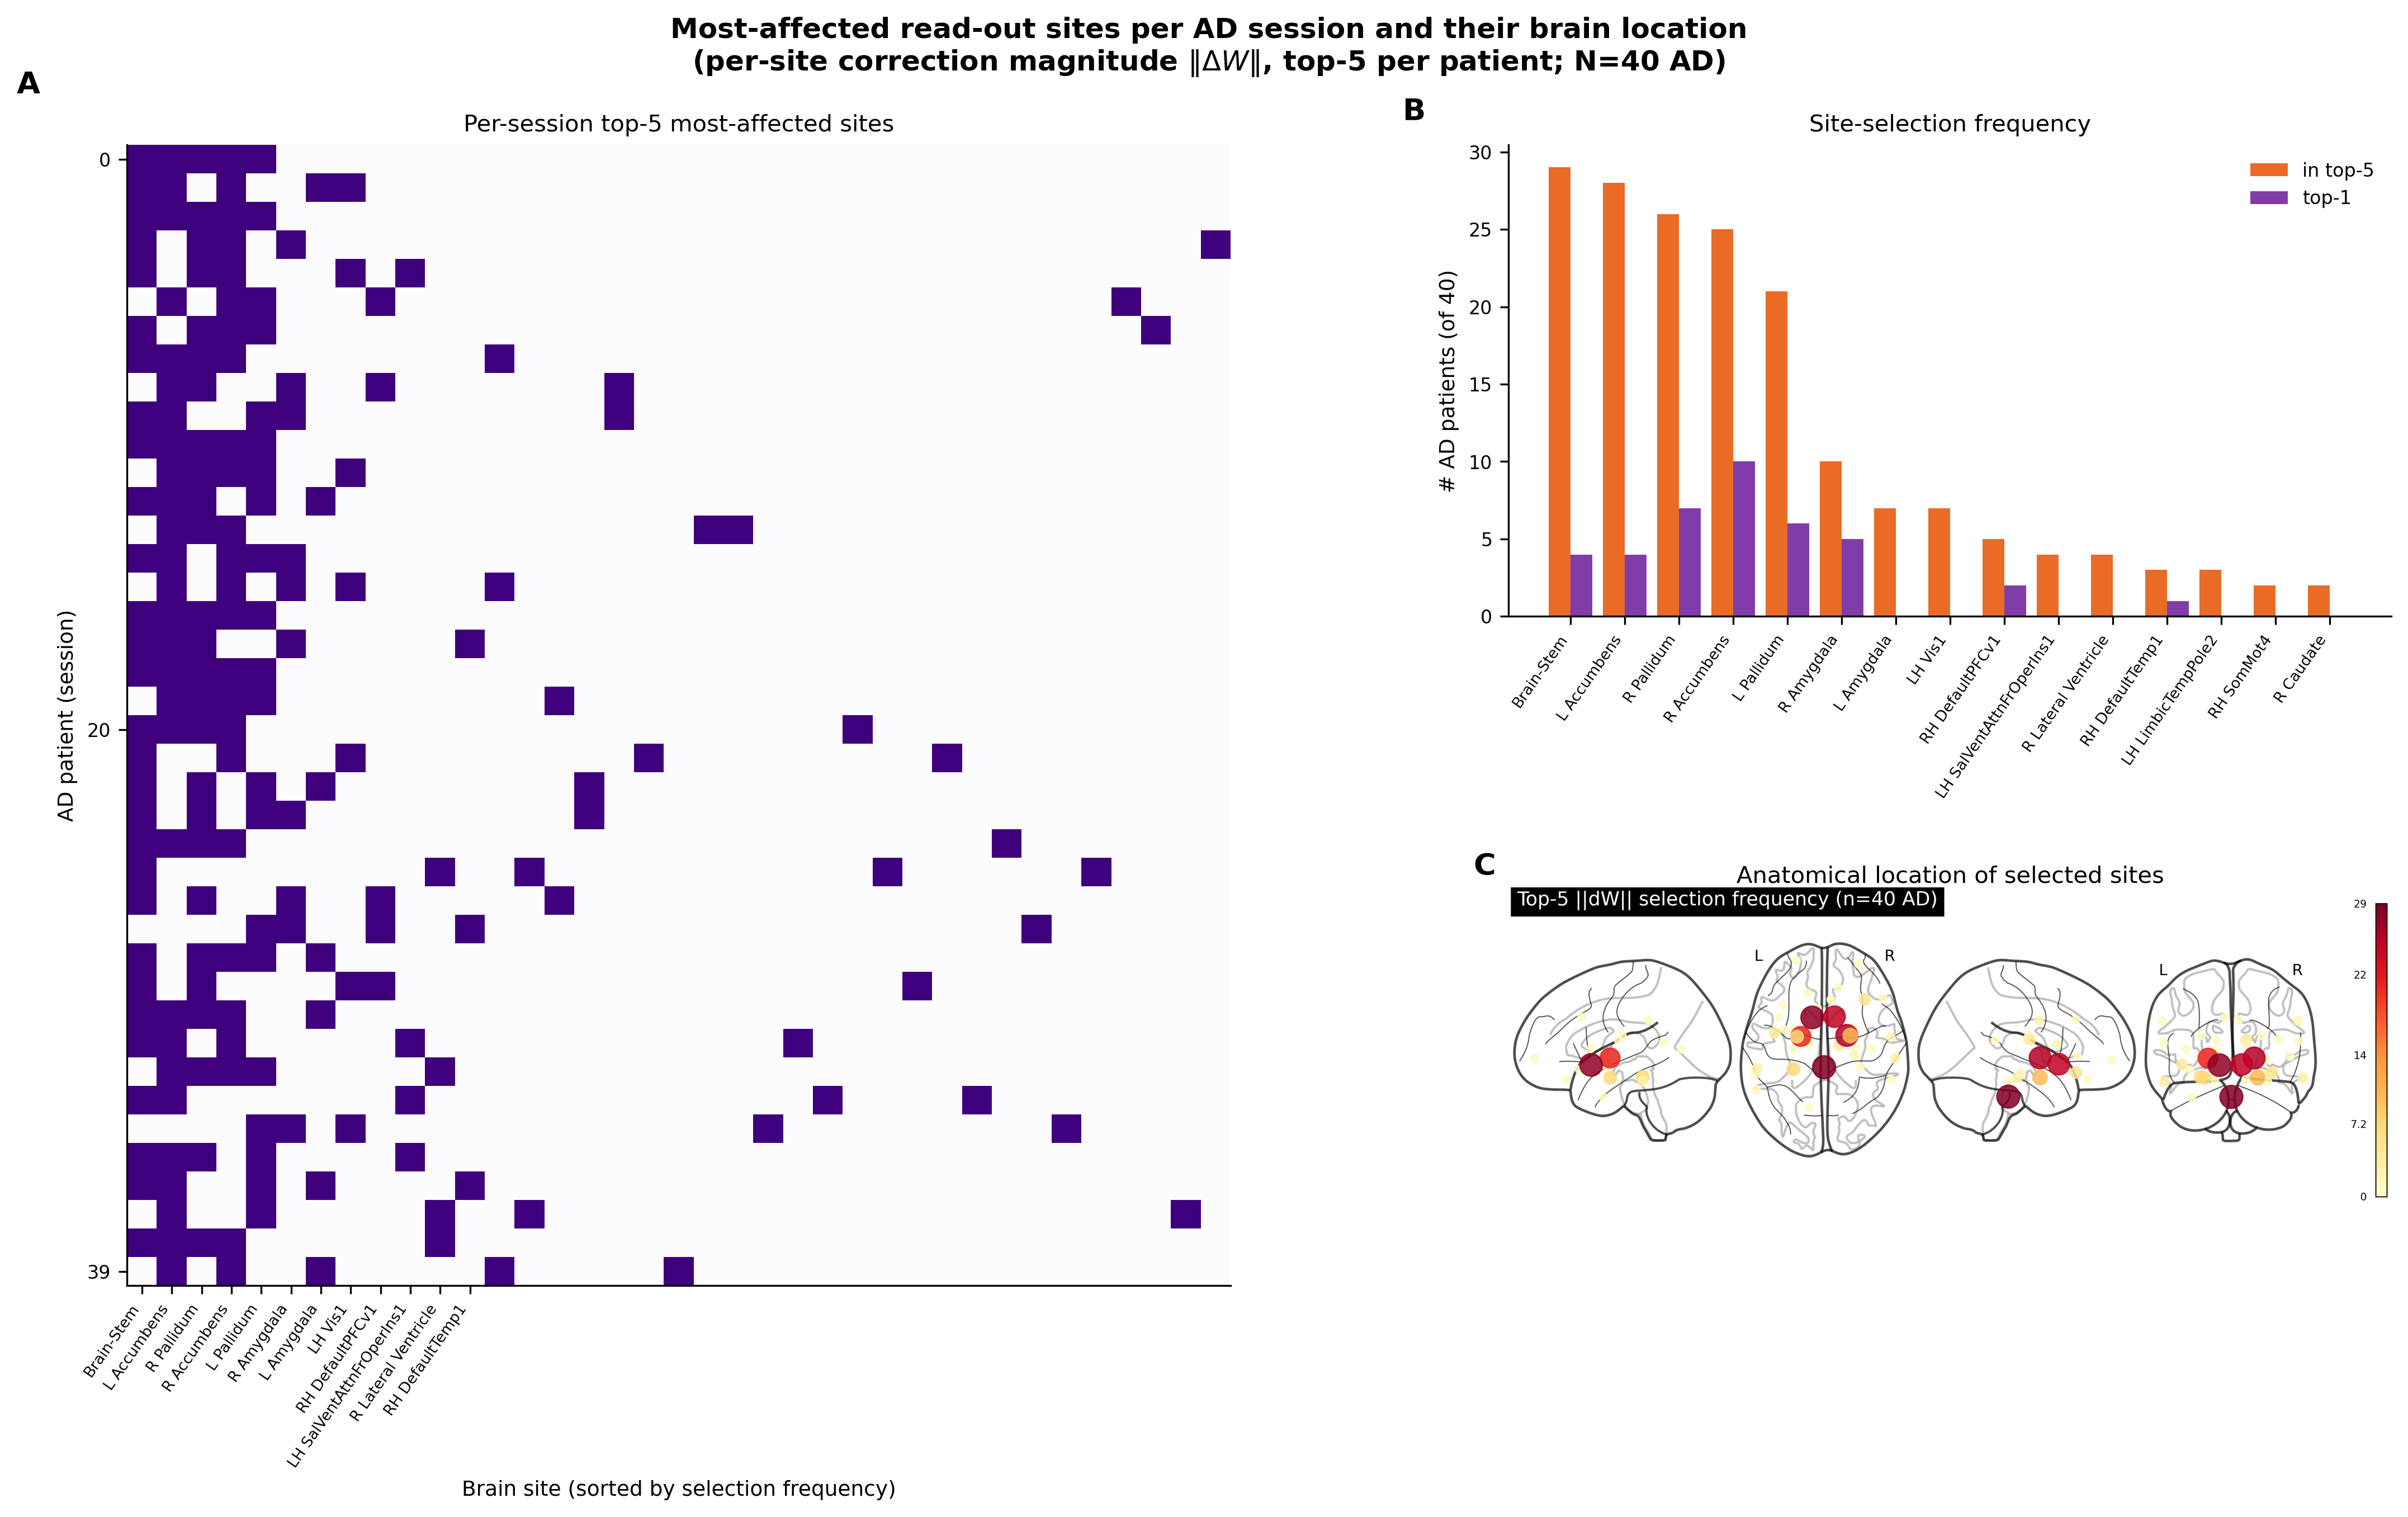
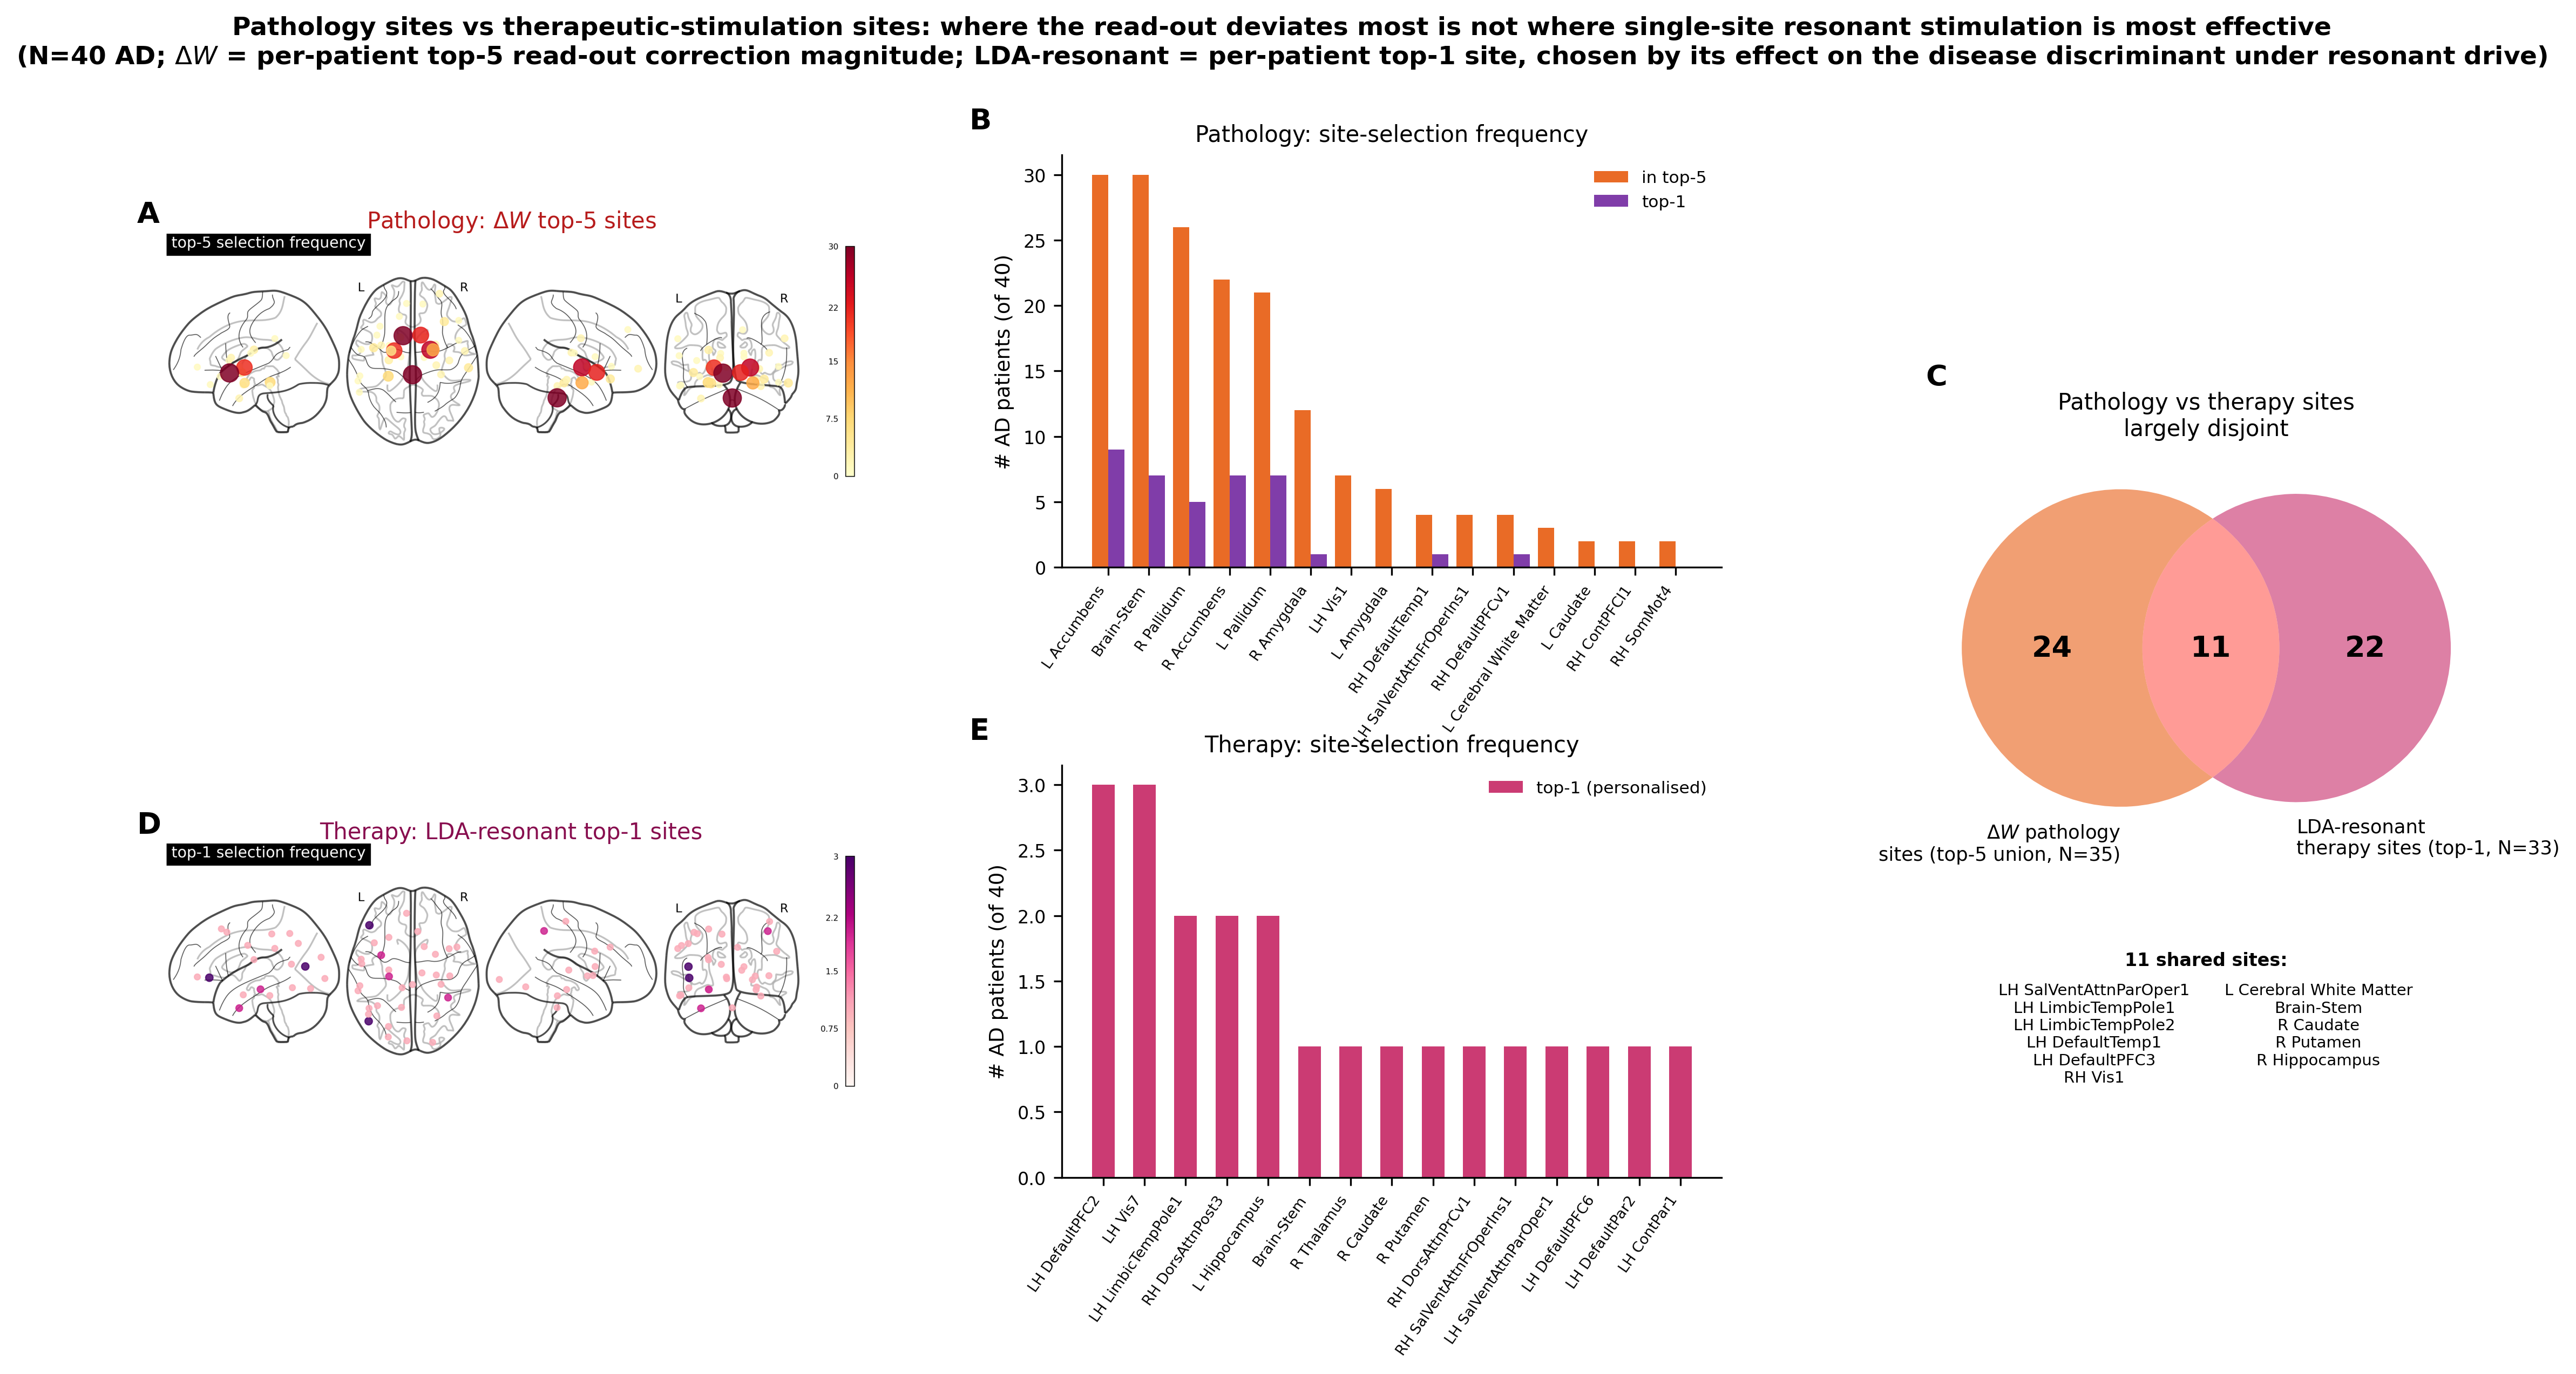
Figure 5: add explicit pathology-vs-therapy site comparison
User request: Fig 5 currently shows only the sites where the read-out
deviates most (Delta-W, pathology). Extended it to directly compare those
against the sites selected by single-site sinusoidal/resonant stimulation
(personalised LDA-resonant targets), making the paper's central dissociation
visually and quantitatively explicit in the main text rather than only in
supplementary Fig S5.

New 5-panel layout (was 3: membership matrix, freq bars, brain):
  A: glass brain, Delta-W top-5 pathology sites (reuses/re-renders existing
     figure5_brain data)
  B: pathology site-selection frequency bars (top-5/top-1) -- unchanged data
  C: 2-set Venn overlap: 35 distinct pathology sites (top-5 union) vs 33
     distinct therapy sites (top-1 per patient, personalised LDA-resonant) --
     only 11 shared, with the shared site names listed
  D: glass brain, therapy (LDA-resonant top-1) sites
  E: therapy site-selection frequency bars

Reuses only already-cached data, no resimulation: pert_sites_data.npz
(top5_site_counts, top1_site_counts, parcel_coords, from
pert_sites_stimulation.py) and pert_compare3_data.npz (pers_counts, from
pert_compare3.py). New script paper_figures/replot_figure5_topsites.py
follows the repo's replot_*.py convention. New dependency: matplotlib-venn
(added to README requirements).

Updated main.tex: full caption rewrite for the 5 panels, and the Results
pivot paragraph now cites the explicit overlap numbers (35 vs 33 distinct
[…]

diff --git a/paper_figures/replot_figure5_topsites.py b/paper_figures/replot_figure5_topsites.py
@@ -1,0 +1,212 @@
+"""
+replot_figure5_topsites.py
+===========================
+Extend Figure 5 into an explicit comparison: the sites where the AD read-out
+deviates most (pathology, Delta-W) vs the sites where single-site resonant
+stimulation is most effective (therapy, LDA-resonant / "stim sites"), showing
+that the two site sets are largely disjoint. No resimulation: reuses cached
+per-site counts and MNI coordinates.
+
+Data:
+  Delta-W (pathology) top-5 / top-1 per-patient selection counts and parcel
+  coordinates: ../pert_sites_data.npz (top5_site_counts, top1_site_counts,
+  parcel_coords), from pert_sites_stimulation.py (same seeded reservoir/W-fit
+  as this figure's original version).
+
+  LDA-resonant (therapy) per-patient top-1 site (argmax over 121 candidate
+  sites of the resonant-drive FC-lag reduction toward CC), and the full
+  121 x 40 reduction matrix: ../pert_compare3_data.npz (pers_counts, red_full),
+  from pert_compare3.py.
+
+Panels:
+  A  Glass brain, Delta-W top-5 selection frequency (pathology)
+  B  Selection-frequency bars, Delta-W (top-5 orange, top-1 purple)
+  C  Overlap (2-set Venn): Delta-W top-5-union sites vs LDA-resonant top-1
+     sites -- the great majority of sites in each set are exclusive to that
+     criterion
+  D  Glass brain, LDA-resonant top-1 selection frequency (therapy)
+  E  Selection-frequency bars, LDA-resonant top-1
+
+Saves: figure5_topsites.{png,pdf}
+"""
+import numpy as np
+import matplotlib
+matplotlib.use("Agg")
+import matplotlib.pyplot as plt
+import matplotlib.gridspec as gridspec
+from matplotlib.image import imread
+from matplotlib_venn import venn2
+import warnings; warnings.filterwarnings("ignore")
+
+plt.rcParams.update({
+    "font.family": "sans-serif", "font.size": 9,
+    "axes.labelsize": 9, "axes.titlesize": 10,
+    "xtick.labelsize": 8, "ytick.labelsize": 8,
+    "legend.fontsize": 8, "figure.dpi": 300, "savefig.dpi": 300,
+    "axes.spines.top": False, "axes.spines.right": False,
+})
+
+# ── parcel labels ─────────────────────────────────────────────────────────────
+def load_labels(path="../timeseries/parcel_labels.txt"):
+    lab = {}
+    with open(path) as f:
+        for line in f:
+            parts = line.split(None, 1)
+            if len(parts) == 2 and parts[0].strip().isdigit():
+                lab[int(parts[0]) - 1] = parts[1].strip()
+    return lab
+
+def short_label(name):
+    if name is None:
+        return "?"
+    name = name.replace("Left ", "L ").replace("Right ", "R ")
+    if name.startswith("7Networks_"):
+        p = name.replace("7Networks_", "").split("_")
+        return (p[0] + " " + "".join(p[1:])) if len(p) > 1 else p[0]
+    return name
+
+labels = load_labels()
+
+# ── cached data (no resimulation) ──────────────────────────────────────────────
+sites = np.load("../pert_sites_data.npz", allow_pickle=True)
+counts5 = sites["top5_site_counts"]; counts1 = sites["top1_site_counts"]
+parcel_coords = sites["parcel_coords"]
+N_SITES = len(counts5)
+
+cmp3 = np.load("../pert_compare3_data.npz", allow_pickle=True)
+pers_counts = cmp3["pers_counts"].astype(int)   # per-patient top-1 LDA-resonant site
+n_ad = int(pers_counts.sum())
+
+dw5_set = set(np.where(counts5 > 0)[0])          # Delta-W top-5-union sites
+stim_set = set(np.where(pers_counts > 0)[0])      # LDA-resonant top-1 sites
+overlap_sites = sorted(dw5_set & stim_set)
+n_dw_only = len(dw5_set - stim_set)
+n_stim_only = len(stim_set - dw5_set)
+n_overlap = len(overlap_sites)
+print(f"Delta-W top-5-union sites: {len(dw5_set)}  |  LDA-resonant top-1 sites: {len(stim_set)}")
+print(f"Overlap: {n_overlap} sites {[short_label(labels.get(s)) for s in overlap_sites]}")
+print(f"Delta-W-only: {n_dw_only}  |  shared: {n_overlap}  |  stim-only: {n_stim_only}")
+
+order5 = np.argsort(counts5)[::-1]; sel5 = order5[counts5[order5] > 0]
+order_p = np.argsort(pers_counts)[::-1]; sel_p = order_p[pers_counts[order_p] > 0]
+
+# ══════════════════════════════════════════════════════════════════════════════
+# BRAIN RENDERS
+# ══════════════════════════════════════════════════════════════════════════════
+print("\nRendering glass brains ...")
+from nilearn import plotting
+
+sel = counts5 > 0
+disp = plotting.plot_markers(
+    node_values=counts5[sel].astype(float), node_coords=parcel_coords[sel],
+    node_size=25 + 10 * counts5[sel], node_cmap="YlOrRd",
+    node_vmin=0, node_vmax=float(counts5.max()),
+    display_mode="lzry", alpha=0.85, colorbar=True,
+    title="top-5 selection frequency")
+disp.savefig("figure5_brain.png", dpi=300)
+disp.savefig("figure5_brain.pdf")
+disp.close()
+
+sel = pers_counts > 0
+disp = plotting.plot_markers(
+    node_values=pers_counts[sel].astype(float), node_coords=parcel_coords[sel],
+    node_size=25 + 10 * pers_counts[sel], node_cmap="RdPu",
+    node_vmin=0, node_vmax=float(pers_counts.max()),
+    display_mode="lzry", alpha=0.85, colorbar=True,
+    title="top-1 selection frequency")
+disp.savefig("figure5_stimbrain.png", dpi=300)
+disp.savefig("figure5_stimbrain.pdf")
+disp.close()
+print("Saved figure5_brain.{png,pdf} and figure5_stimbrain.{png,pdf}")
+
+# ══════════════════════════════════════════════════════════════════════════════
+# COMPOSITE FIGURE 5
+# ══════════════════════════════════════════════════════════════════════════════
+print("Rendering composite figure ...")
+fig = plt.figure(figsize=(15.5, 8.2), facecolor="white")
+gs = gridspec.GridSpec(2, 3, figure=fig, width_ratios=[1.05, 1.0, 0.85],
+                        height_ratios=[1.0, 1.0], hspace=0.48, wspace=0.32,
+                        left=0.055, right=0.98, top=0.88, bottom=0.11)
+
+def _tag(ax, t, x=-0.08, y=1.05):
+    ax.text(x, y, t, transform=ax.transAxes, fontsize=13,
+             fontweight="bold", va="bottom", ha="left")
+
+# ── A: Delta-W glass brain (pathology) ─────────────────────────────────────────
+ax_a = fig.add_subplot(gs[0, 0])
+ax_a.imshow(imread("figure5_brain.png")); ax_a.axis("off")
+ax_a.set_title("Pathology: $\\Delta W$ top-5 sites", pad=2, color="#B71C1C")
+_tag(ax_a, "A", x=-0.04, y=1.02)
+
+# ── B: Delta-W selection-frequency bars ────────────────────────────────────────
+ax_b = fig.add_subplot(gs[0, 1])
+nb = min(15, len(sel5))
+xs = np.arange(nb)
+ax_b.bar(xs - 0.2, counts5[sel5[:nb]], 0.4, color="#E65100", alpha=0.85, label="in top-5")
+ax_b.bar(xs + 0.2, counts1[sel5[:nb]], 0.4, color="#6A1B9A", alpha=0.85, label="top-1")
+ax_b.set_xticks(xs)
+ax_b.set_xticklabels([short_label(labels.get(s)) for s in sel5[:nb]],
+                      rotation=55, ha="right", fontsize=6.5)
+ax_b.set_ylabel(f"# AD patients (of {n_ad})")
+ax_b.set_title("Pathology: site-selection frequency")
+ax_b.legend(frameon=False, fontsize=7.5)
+_tag(ax_b, "B", x=-0.14)
+
+# ── C: overlap (Venn) ──────────────────────────────────────────────────────────
+ax_c = fig.add_subplot(gs[:, 2])
+ax_c.set_position([ax_c.get_position().x0, ax_c.get_position().y0 + 0.16,
+                    ax_c.get_position().width, ax_c.get_position().height * 0.62])
+v = venn2(subsets=(n_dw_only, n_stim_only, n_overlap),
+          set_labels=(f"$\\Delta W$ pathology\nsites (top-5 union, N={len(dw5_set)})",
+                       f"LDA-resonant\ntherapy sites (top-1, N={len(stim_set)})"),
+          set_colors=("#E65100", "#C2185B"), alpha=0.55, ax=ax_c)
+for txt in v.subset_labels:
+    if txt is not None:
+        txt.set_fontsize(13); txt.set_fontweight("bold")
+for txt in v.set_labels:
+    if txt is not None:
+        txt.set_fontsize(8.5)
+ax_c.set_title("Pathology vs therapy sites\nlargely disjoint", pad=8)
+_tag(ax_c, "C", x=0.0, y=1.16)
+
+overlap_names = [short_label(labels.get(s)) for s in overlap_sites]
+half = (len(overlap_names) + 1) // 2
+col1 = "\n".join(overlap_names[:half]); col2 = "\n".join(overlap_names[half:])
+ax_c.text(0.5, -0.28, f"{n_overlap} shared sites:", transform=ax_c.transAxes,
+           ha="center", va="top", fontsize=8, fontweight="bold")
+ax_c.text(0.30, -0.36, col1, transform=ax_c.transAxes, ha="center", va="top", fontsize=7)
+ax_c.text(0.70, -0.36, col2, transform=ax_c.transAxes, ha="center", va="top", fontsize=7)
+
+# ── D: LDA-resonant glass brain (therapy) ──────────────────────────────────────
+ax_d = fig.add_subplot(gs[1, 0])
+ax_d.imshow(imread("figure5_stimbrain.png")); ax_d.axis("off")
+ax_d.set_title("Therapy: LDA-resonant top-1 sites", pad=2, color="#880E4F")
+_tag(ax_d, "D", x=-0.04, y=1.02)
+
+# ── E: LDA-resonant selection-frequency bars ────────────────────────────────────
+ax_e = fig.add_subplot(gs[1, 1])
+ne = min(15, len(sel_p))
+xs = np.arange(ne)
+ax_e.bar(xs, pers_counts[sel_p[:ne]], 0.55, color="#C2185B", alpha=0.85,
+          label="top-1 (personalised)")
+ax_e.set_xticks(xs)
+ax_e.set_xticklabels([short_label(labels.get(s)) for s in sel_p[:ne]],
+                      rotation=55, ha="right", fontsize=6.5)
+ax_e.set_ylabel(f"# AD patients (of {n_ad})")
+ax_e.set_title("Therapy: site-selection frequency")
+ax_e.legend(frameon=False, fontsize=7.5)
+_tag(ax_e, "E", x=-0.14)
+
+fig.suptitle(
+    "Pathology sites vs therapeutic-stimulation sites: where the read-out "
+    "deviates most is not where single-site resonant stimulation is most "
+    f"effective\n(N={n_ad} AD; $\\Delta W$ = per-patient top-5 read-out "
+    "correction magnitude; LDA-resonant = per-patient top-1 site, chosen by "
+    "its effect on the disease discriminant under resonant drive)",
+    fontsize=11.3, fontweight="bold", y=0.985)
+
+for ext in ("png", "pdf"):
+    fig.savefig(f"figure5_topsites.{ext}", dpi=300, bbox_inches="tight", facecolor="white")
+    print(f"Saved figure5_topsites.{ext}")
+plt.close(fig)
+print("\nDone.")

diff --git a/paper/main.tex b/paper/main.tex
@@ -397,8 +397,8 @@ The anatomy of the read-out changes was nonetheless interpretable. The sites
 with the largest per-patient correction magnitude
 $\lVert\Delta\mathbf{W}\rVert$ were consistently subcortical and limbic, most
 frequently the bilateral pallidum and nucleus accumbens, the brainstem and the
-amygdala (Fig.~\ref{fig:topsites}), each selected among the top-five sites in a
-large fraction of AD patients, structures of the limbic and basal-ganglia
+amygdala (Fig.~\ref{fig:topsites}A,B), each selected among the top-five sites in
+a large fraction of AD patients, structures of the limbic and basal-ganglia
 circuitry implicated in Alzheimer's disease, with the brainstem and amygdala in
 particular harbouring some of the earliest neurofibrillary
 pathology~\cite{braak1991}. Critically, however, correcting even these
@@ -417,25 +417,44 @@ magnitude of change, and identifying it requires the per-patient generative
 model. The analysis below shows that this change of criterion is decisive: the
 same type of focal, single-site, resonant intervention that fails at the
 deviation-ranked target succeeds completely at the discriminant-aligned one.
+Directly comparing the two site sets makes the dissociation explicit
+(Fig.~\ref{fig:topsites}C--E): the $35$ distinct sites ever appearing in a
+patient's pathology top-5 and the $33$ distinct per-patient therapy sites
+(personalised LDA-resonant targets) identified across the $40$ AD patients
+share only $11$ sites, the great majority of each set is exclusive to its own
+criterion, and the therapy sites, unlike the pathology sites, have no shared
+anatomical hub.
 
 \begin{figure}[tbp]
   \centering
   \includegraphics[width=\linewidth]{figure5_topsites.pdf}
-  \caption{\textbf{Most-affected read-out sites per AD session and their
-  anatomical location.}
-  For each AD patient, brain sites are ranked by the per-site correction
-  magnitude $\lVert\Delta\mathbf{W}\rVert$ (column norm of
-  $\Delta\mathbf{W}=\bar{\mathbf{W}}_{\mathrm{CC}}-\mathbf{W}_{\mathrm{AD}}$).
-  (\textbf{A}) Top-5 membership matrix: rows, the $N=40$ AD sessions; columns,
-  the brain sites ever selected, ordered by selection frequency; a filled cell
-  marks a site among that patient's top-five.
-  (\textbf{B}) Selection frequency: number of AD patients with each site among
-  the top-five (orange) or as the single most-affected site (top-1, purple).
-  The leading sites are subcortical and limbic, bilateral pallidum and nucleus
-  accumbens, the brainstem and the amygdala.
-  (\textbf{C}) Glass-brain markers at the selected parcels (MNI centroids),
-  coloured and sized by top-five selection frequency, showing their deep
-  subcortical/limbic location.}
+  \caption{\textbf{Pathology sites and therapeutic-stimulation sites are
+  largely disjoint.}
+  \emph{Pathology} sites are ranked per AD patient by the per-site read-out
+  correction magnitude $\lVert\Delta\mathbf{W}\rVert$ (column norm of
+  $\Delta\mathbf{W}=\bar{\mathbf{W}}_{\mathrm{CC}}-\mathbf{W}_{\mathrm{AD}}$,
+  top-5 per patient). \emph{Therapy} sites are each patient's personalised
+  LDA-resonant target, the single site (top-1) whose resonant drive moves that
+  patient's FC-lag discriminant most toward CC (Materials and Methods).
+  (\textbf{A}) Glass-brain markers at the pathology sites (MNI centroids),
+  coloured and sized by top-five selection frequency: deep subcortical/limbic
+  location.
+  (\textbf{B}) Pathology selection frequency: number of AD patients with each
+  site among the top-five (orange) or as the single most-affected site (top-1,
+  purple). The leading sites are subcortical and limbic, bilateral pallidum and
+  nucleus accumbens, the brainstem and the amygdala.
+  (\textbf{C}) Overlap between the two site sets: of the $35$ distinct
+  pathology sites (top-5 union across patients) and $33$ distinct therapy sites
+  (top-1 per patient), only $11$ sites ($\sim$$31\%$ and $\sim$$33\%$ of each
+  set, respectively) are shared; the great majority of each set is exclusive to
+  that criterion.
+  (\textbf{D}) Glass-brain markers at the therapy sites, coloured and sized by
+  top-1 selection frequency: predominantly cortical and, unlike the pathology
+  sites, without a shared anatomical hub, each site is selected by at most three
+  of the $40$ patients.
+  (\textbf{E}) Therapy selection frequency: the leading therapy sites are the
+  left Default-network prefrontal cortex and visual association cortex, with no
+  site selected by more than three patients.}
   \label{fig:topsites}
 \end{figure}
 
@@ -449,7 +468,7 @@ cycles/step, corresponds to $\approx0.026$\,Hz once expressed in physical time
 through the TR ($=3$\,s) --- a unit conversion, not a dependence of the resonance on
 TR --- placing it in the infraslow band in which resting-state
 connectivity itself fluctuates, so the same fitted model specifies both a location
-(the subcortical/limbic targets of Fig.~\ref{fig:topsites}) and an optimal driving
+(the subcortical/limbic targets of Fig.~\ref{fig:topsites}A,B) and an optimal driving
 frequency, a spatial \emph{and} spectral prescription that descriptive analyses
 cannot provide. This optimum is an \emph{interaction} of the two, however: a
 resonant drive reshapes the FC network-wide, yet the effect still depends strongly

diff --git a/README.md b/README.md
@@ -42,8 +42,10 @@ excluded via `.gitignore`.
 
 ## Requirements
 
-Python 3 with NumPy, SciPy, scikit-learn, nilearn, and Matplotlib. Preprocessing
-additionally uses a BIDS/fMRIPrep toolchain (see `BIDS_CONVERSION.md`).
+Python 3 with NumPy, SciPy, scikit-learn, nilearn, Matplotlib, and
+matplotlib-venn (used by the Figure 5 pathology-vs-therapy site comparison).
+Preprocessing additionally uses a BIDS/fMRIPrep toolchain (see
+`BIDS_CONVERSION.md`).
 
 ## Citation
 